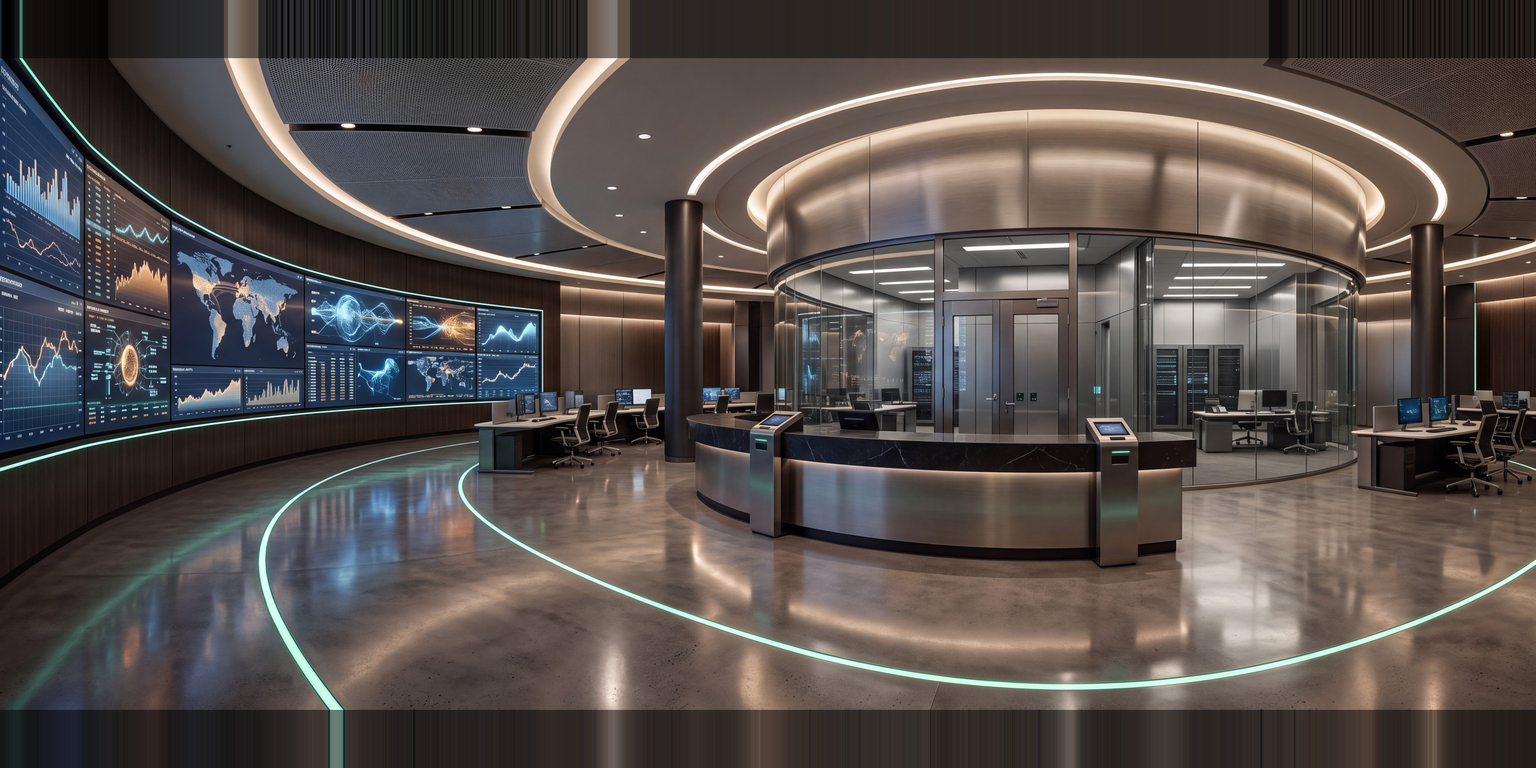
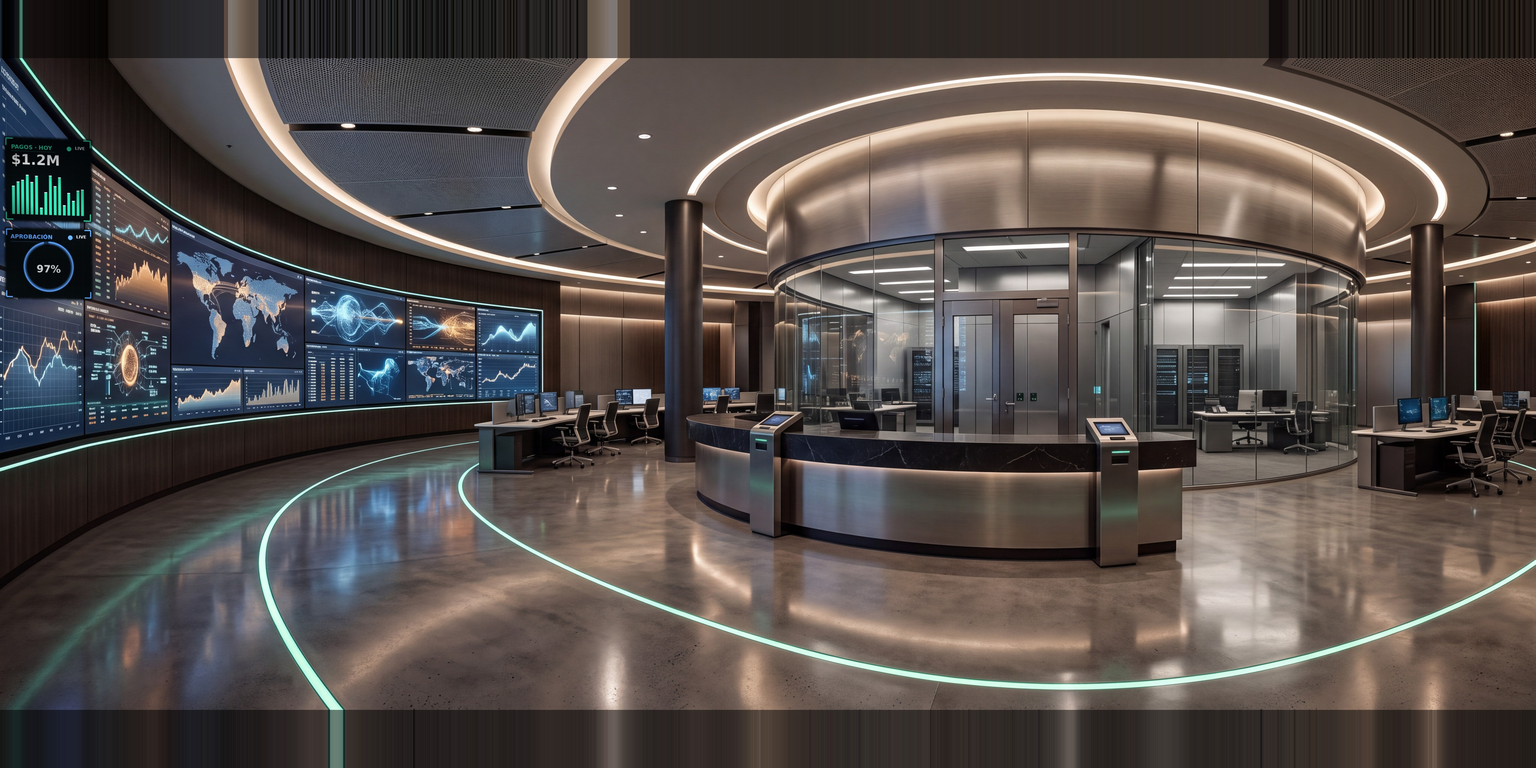
portal360: tableros horneados en las 3 salas (Suscripciones/Seguridad/Pagos), alta calidad, overlays retirados; consola limpia
Claude-Session: https://claude.ai/code/session_01Q8Ypf8CPRvv1zprzmTWFCw

Changed region(s): [[0.0, 0.1562, 0.0625, 0.4062]]

diff --git a/portal360.html b/portal360.html
@@ -510,13 +510,13 @@ WDASH.dash="<div class=\"wdash\"><div class=\"wdhead\"><span>Panel · tiempo rea
        sheet:'media/strip-infra.webp', cls:'infraa'},
       {type:'door', lon:180,lat:-2, to:0, label:'Volver a Recepción'}
     ]},
-    {name:'Capa 02 · Seguridad', pano:'media/sala3.jpg', entryYaw:0, screens:[{corners:[[-17.35,8.23],[-1.67,8.38],[-1.62,-2.37],[-17.64,-2.45]],type:'radar',acc:'c',title:'SEGURIDAD · 24H',big:'0',sub:'BRECHAS'}], spots:[
+    {name:'Capa 02 · Seguridad', pano:'media/sala3.jpg', entryYaw:0, screens:[], spots:[
       {type:'char', lon:-8,lat:-8, hk:'seg', eye:'Capa 02', title:'Seguridad', who:'ESPECIALISTA · SEGURIDAD',
        text:'Cifrado, 2FA y vigilancia continua: tus datos y los de tus usuarios, blindados.',
        sheet:'media/strip-seg.webp', cls:'sega'},
       {type:'door', lon:130,lat:-2, to:0, label:'Volver a Recepción'}
     ]},
-    {name:'Capa 03 · Pagos', pano:'media/sala4.jpg', entryYaw:0, screens:[{corners:[[-68.09,17.56],[-54.61,17.41],[-54.71,8.02],[-68.22,7.64]],type:'ring',acc:'b',title:'PAGOS · APROB',val:0.97,sub:'APROBACIÓN'}], spots:[
+    {name:'Capa 03 · Pagos', pano:'media/sala4.jpg', entryYaw:0, screens:[], spots:[
       {type:'char', lon:8,lat:-8, hk:'pagos', eye:'Capa 03', title:'Pagos', who:'ESPECIALISTA · PAGOS',
        text:'Cobros directos al consumidor, sin fricción: la capa que convierte usuarios en ingresos.',
        sheet:'media/strip-pagos.webp', cls:'pagosa'},
